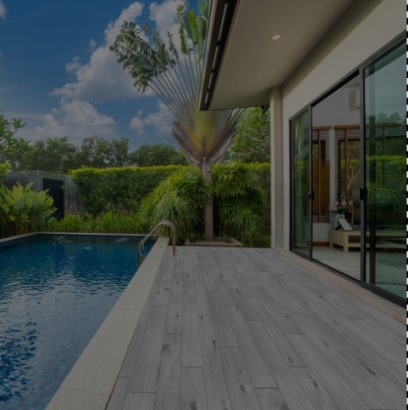
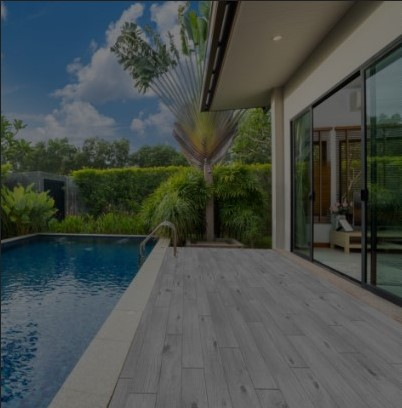
fixed image stretching in home

diff --git a/src/components/Home/Services/index.tsx b/src/components/Home/Services/index.tsx
@@ -2,7 +2,7 @@ import React from "react";
 import Image from "next/image";
 
 import frame1 from "@/public/images/home/Frame1.png";
-import frame2 from "@/public/images/home/Frame2.jpg";
+import frame2 from "@/public/images/home/Frame2.png";
 import frame3 from "@/public/images/home/Frame3.png";
 import frame4 from "@/public/images/home/Frame4.png";
 import frame5 from "@/public/images/home/Frame5.png";
@@ -23,8 +23,8 @@ import roof8 from "@/public/images/home/natural Disaster Logo.png";
 const Services = () => {
   return (
     <div className="py-32">
-      <div className="flex flex-wrap justify-center w-full  mx-auto">
-        <div className="w-[33.3%] min-h-[484px] border-[0.5px] border-white tab:w-full group relative overflow-hidden">
+      <div className="flex flex-wrap justify-center w-full mx-auto">
+        <div className="w-[33.3%] border-[0.5px] border-white tab:w-full group relative overflow-hidden aspect-[5/5]">
           <div className="overflow-hidden h-full flex justify-center items-center relative">
             {/* Overlay */}
             <div className="absolute inset-0 bg-black bg-opacity-40 z-10 transition-opacity duration-300 ease-in-out group-hover:opacity-0"></div>
@@ -33,23 +33,14 @@ const Services = () => {
             <Image
               src={frame1}
               alt="Roofing Service"
-              width={480}
-              height={484}
-              className="transition-transform absolute z-0 top-0 h-full duration-300 ease-in-out transform group-hover:scale-105 w-full max-h-[484px]"
+              fill
+              className="transition-transform absolute z-0 top-0 h-full w-full object-cover duration-300 ease-in-out transform group-hover:scale-105"
             />
 
             {/* Content */}
             <div className="relative z-10">
-              <Image
-                className="mx-auto"
-                src={roof1}
-                alt=""
-                width={95}
-                height={95}
-              />
-              <Text className="text-[24px] font-light text-center my-4">
-                Roofing
-              </Text>
+              <Image className="mx-auto" src={roof1} alt="" width={95} height={95} />
+              <Text className="text-[24px] font-light text-center my-4">Roofing</Text>
               <div className="flex justify-center w-full">
                 <Button className="w-[136px] bg-transparent text-white border border-white hover:bg-white hover:text-black hover:border-black transition duration-300">
                   Learn More
@@ -59,18 +50,20 @@ const Services = () => {
           </div>
         </div>
 
-        <div className="w-[33.3%] border-l-0 border-r-0  border-[0.5px] border-white  min-h-[484px] tab:w-full group relative overflow-hidden ">
+        {/* Repeat the same for other items */}
+        <div className="w-[33.3%] border-l-0 border-r-0 border-[0.5px] border-white min-h-[484px] tab:w-full group relative overflow-hidden">
           <div className="overflow-hidden h-full flex justify-center items-center relative">
             {/* Overlay */}
             <div className="absolute inset-0 bg-black bg-opacity-40 z-10 transition-opacity duration-300 ease-in-out group-hover:opacity-0"></div>
 
             <Image
               src={frame2}
-              alt="Roofing Service"
+              alt="Decks Service"
               width={480}
               height={484}
-              className="transition-transform absolute z-0 top-0 h-full object-cover  border border-white duration-300 ease-in-out transform group-hover:scale-105 w-full max-h-[487px]"
+              className="transition-transform absolute z-0 top-0 h-full w-full object-cover duration-300 ease-in-out transform group-hover:scale-105"
             />
+
             <div className="relative z-10">
               <Image
                 className="mx-auto"
@@ -79,29 +72,29 @@ const Services = () => {
                 width={95}
                 height={95}
               />
-              <Text className="text-[24px] font-light text-center my-4">
-                Decks
-              </Text>
+              <Text className="text-[24px] font-light text-center my-4">Decks</Text>
               <div className="flex justify-center w-full">
                 <Button className="w-[136px] bg-transparent text-white border border-white hover:bg-white hover:text-black hover:border-black transition duration-300">
                   Learn More
-                </Button>{" "}
+                </Button>
               </div>
             </div>
           </div>
         </div>
-        <div className="w-[33.4%] border-[0.5px] border-white  min-h-[484px] tab:w-full group relative overflow-hidden ">
+
+        <div className="w-[33.4%] border-[0.5px] border-white min-h-[484px] tab:w-full group relative overflow-hidden">
           <div className="overflow-hidden h-full flex justify-center items-center relative">
             {/* Overlay */}
             <div className="absolute inset-0 bg-black bg-opacity-40 z-10 transition-opacity duration-300 ease-in-out group-hover:opacity-0"></div>
 
             <Image
               src={frame3}
-              alt="Roofing Service"
+              alt="Kitchens & Bathrooms Service"
               width={480}
               height={484}
-              className="transition-transform absolute z-0 top-0 h-full border border-white duration-300 ease-in-out transform group-hover:scale-105 w-full max-h-[484px]"
+              className="transition-transform absolute z-0 top-0 h-full w-full object-cover duration-300 ease-in-out transform group-hover:scale-105"
             />
+
             <div className="relative z-10">
               <Image
                 className="mx-auto"
@@ -116,15 +109,16 @@ const Services = () => {
               <div className="flex justify-center w-full">
                 <Button className="w-[136px] bg-transparent text-white border border-white hover:bg-white hover:text-black hover:border-black transition duration-300">
                   Learn More
-                </Button>{" "}
+                </Button>
               </div>
             </div>
           </div>
         </div>
       </div>
+
       {/*  */}
       <div className="flex flex-wrap justify-center w-full min-h-[484px]  overflow-hidden   mx-auto">
-        <div className="w-[50%] border-[0.5px] border-y-0 border-r-0 border-white  tab:w-full relative group">
+        <div className="w-[50%] border-[0.5px] border-y-0 border-r-0 border-white  tab:w-full relative group aspect-[5/5]">
           <div className="overflow-hidden h-full flex justify-center items-center relative">
             {/* Overlay */}
             <div className="absolute inset-0 bg-black bg-opacity-40 z-10 transition-opacity duration-300 ease-in-out group-hover:opacity-0"></div>
@@ -133,7 +127,7 @@ const Services = () => {
               alt="Roofing Service"
               width={480}
               height={484}
-              className="transition-transform absolute z-0 top-0 h-full border border-white duration-300 ease-in-out transform group-hover:scale-105 w-full max-h-[484px]"
+              className="transition-transform absolute z-0 top-0 h-full border border-white duration-300 ease-in-out transform group-hover:scale-105 w-full object-cover"
             />
             <div className="relative z-10">
               <Image
@@ -165,7 +159,7 @@ const Services = () => {
               alt="Roofing Service"
               width={480}
               height={484}
-              className="transition-transform absolute z-0 top-0 h-full border border-white duration-300 ease-in-out transform group-hover:scale-105 w-full max-h-[484px]"
+              className="transition-transform absolute z-0 top-0 h-full border border-white duration-300 ease-in-out transform group-hover:scale-105 w-full object-cover"
             />
             <div className="relative z-10">
               <Image
@@ -189,7 +183,7 @@ const Services = () => {
       </div>
       {/*  */}
       <div className="flex flex-wrap justify-center w-full   mx-auto">
-        <div className="w-[33.3%] border-[0.5px] border-white  min-h-[484px] tab:w-full group relative overflow-hidden ">
+        <div className="w-[33.3%] border-[0.5px] border-white  min-h-[484px] tab:w-full group relative overflow-hidden aspect-[3/5]">
           <div className="overflow-hidden h-full flex justify-center items-center relative">
             {/* Overlay */}
             <div className="absolute inset-0 bg-black bg-opacity-40 z-10 transition-opacity duration-300 ease-in-out group-hover:opacity-0"></div>
@@ -199,7 +193,7 @@ const Services = () => {
               alt="Roofing Service"
               width={480}
               height={484}
-              className="transition-transform absolute z-0 top-0 h-full border border-white duration-300 ease-in-out transform group-hover:scale-105 w-full max-h-[484px]"
+              className="transition-transform absolute z-0 top-0 h-full border border-white duration-300 ease-in-out transform group-hover:scale-105 w-full object-cover"
             />
             <div className="relative z-10">
               <Image
@@ -230,7 +224,7 @@ const Services = () => {
               alt="Roofing Service"
               width={480}
               height={484}
-              className="transition-transform absolute z-0 top-0 h-full border border-white duration-300 ease-in-out transform group-hover:scale-105 w-full max-h-[484px]"
+              className="transition-transform absolute z-0 top-0 h-full border border-white duration-300 ease-in-out transform group-hover:scale-105 w-full object-cover"
             />
             <div className="relative z-10">
               <Image
@@ -261,7 +255,7 @@ const Services = () => {
               alt="Roofing Service"
               width={480}
               height={484}
-              className="transition-transform absolute z-0 top-0 h-full border border-white duration-300 ease-in-out transform group-hover:scale-105 w-full max-h-[484px]"
+              className="transition-transform absolute z-0 top-0 h-full border border-white duration-300 ease-in-out transform group-hover:scale-105 w-full object-cover"
             />
             <div className="relative z-10">
               <Image
